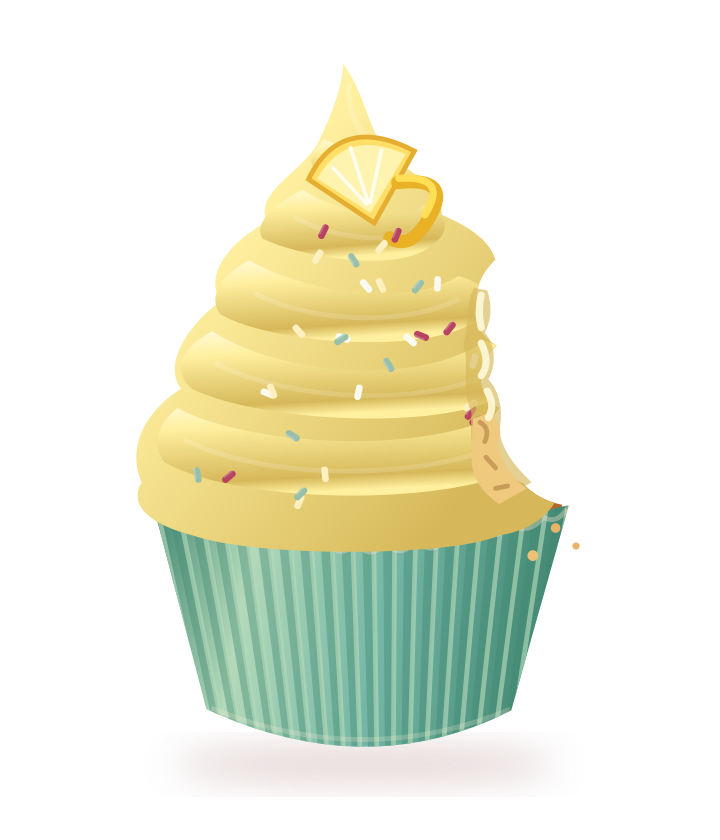
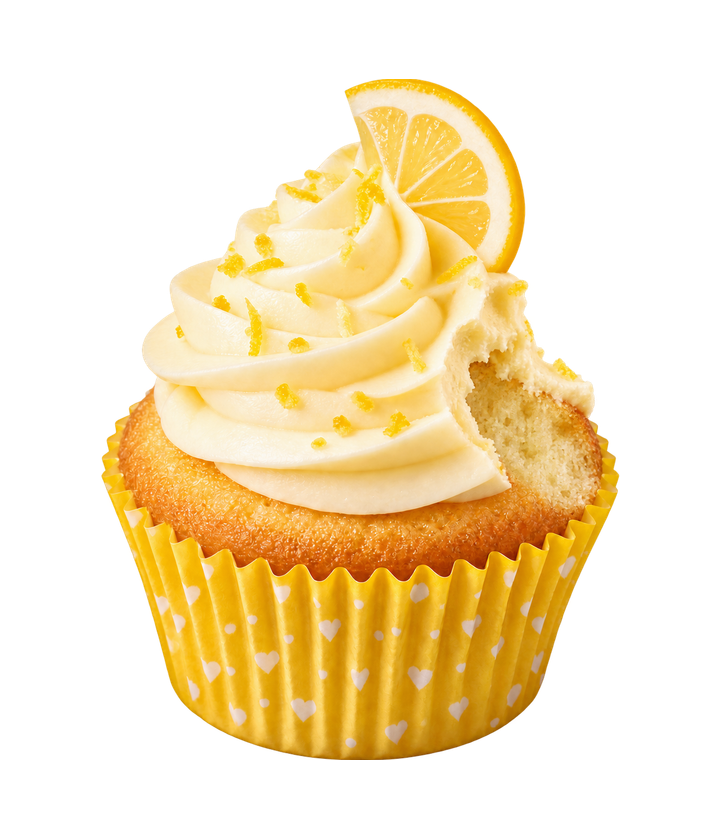
Replace product illustrations with reference-based cupcake and package photos

diff --git a/components/Hero.tsx b/components/Hero.tsx
@@ -33,17 +33,17 @@ export default function Hero() {
       <motion.div className="hero-wordmark pointer-events-none absolute z-0 w-full text-center font-logo text-cherry" style={{ y: reduced ? 0 : logoY }} aria-hidden="true">Cherry Dolly</motion.div>
       <motion.div className="hero-box absolute z-10" style={{ y: reduced ? 0 : boxY }}>
         <motion.div animate={reduced ? { y: 0, rotate: -8 } : { y: [0, -14, 0], rotate: [-8, -6, -8] }} initial={{ rotate: -8 }} transition={reduced ? { duration: 0 } : { duration: 7, ease: "easeInOut", repeat: Infinity }}>
-          <ProductImage src="/images/hero-box.png" fallback="/images/placeholders/hero-box.svg" alt="ピンクとミントの装飾をあしらった、クリーム色の Cherry Dolly カップケーキボックス" priority className="w-full drop-shadow-[0_34px_25px_rgba(124,54,58,0.15)]" />
+          <ProductImage src="/images/hero-box.png" fallback="/images/placeholders/hero-box.svg" alt="ピンクの持ち手が付いた、カップケーキ入りの淡いピンクの紙箱" priority className="w-full drop-shadow-[0_34px_25px_rgba(124,54,58,0.15)]" />
         </motion.div>
       </motion.div>
       <motion.div className="hero-cake hero-cake-vanilla absolute z-20" style={{ y: reduced ? 0 : cakeY }}>
         <motion.div animate={reduced ? { y: 0, rotate: -10 } : { y: [0, -12, 0], rotate: [-10, -6, -10] }} initial={{ rotate: -10 }} transition={reduced ? { duration: 0 } : { duration: 5.8, ease: "easeInOut", repeat: Infinity }}>
-          <ProductImage src="/images/cupcake-vanilla.png" fallback="/images/placeholders/cupcake-vanilla.svg" alt="チェリーをのせた、ふわふわのバニラバタークリームカップケーキ" priority />
+          <ProductImage src="/images/cupcake-vanilla.png" fallback="/images/placeholders/cupcake-vanilla.svg" alt="淡いピンクのクリームと赤いチェリーをのせた、ハート柄のカップケーキ" priority />
         </motion.div>
       </motion.div>
       <motion.div className="hero-cake hero-cake-strawberry absolute z-20" style={{ y: reduced ? 0 : cakeY }}>
         <motion.div animate={reduced ? { y: 0, rotate: 13 } : { y: [0, 11, 0], rotate: [13, 9, 13] }} initial={{ rotate: 13 }} transition={reduced ? { duration: 0 } : { duration: 6.6, ease: "easeInOut", repeat: Infinity }}>
-          <ProductImage src="/images/cupcake-strawberry.png" fallback="/images/placeholders/cupcake-strawberry.svg" alt="カラースプレーを散らした、ピンクのストロベリーミルクカップケーキ" priority />
+          <ProductImage src="/images/cupcake-strawberry.png" fallback="/images/placeholders/cupcake-strawberry.svg" alt="ピンクのクリームに赤いベリーをのせた、ハート柄のカップケーキ" priority />
         </motion.div>
       </motion.div>
       <Sparkle className="absolute top-[47%] left-[39%] z-20 h-9 w-9 text-cherry/75 max-md:top-[35%] max-md:left-[7%] max-md:h-6 max-md:w-6" />

diff --git a/components/BiteInteraction.tsx b/components/BiteInteraction.tsx
@@ -127,7 +127,7 @@ export default function BiteInteraction() {
                   <ProductImage
                     src="/images/cupcake-vanilla.png"
                     fallback="/images/placeholders/cupcake-vanilla.svg"
-                    alt="チェリーをのせた、ふわふわのバニラカップケーキ"
+                    alt="淡いピンクのクリームと赤いチェリーをのせたカップケーキ"
                     priority
                     className="h-full w-full object-contain drop-shadow-[0_24px_16px_rgba(98,45,37,0.14)]"
                   />
@@ -140,7 +140,7 @@ export default function BiteInteraction() {
                   <ProductImage
                     src="/images/cupcake-bite-vanilla.png"
                     fallback="/images/placeholders/cupcake-bite-vanilla.svg"
-                    alt="ひとくち食べて、スポンジの断面が見えるバニラカップケーキ"
+                    alt="ひとくち食べてスポンジの断面が見える、淡いピンクのクリームのカップケーキ"
                     priority
                     className="h-full w-full object-contain drop-shadow-[0_24px_16px_rgba(98,45,37,0.14)]"
                   />

diff --git a/components/ui/ProductImage.tsx b/components/ui/ProductImage.tsx
@@ -15,6 +15,7 @@ export default function ProductImage({ src, fallback, alt, className = "", prior
   const [failedSource, setFailedSource] = useState<string | null>(null);
   const imageRef = useRef<HTMLImageElement>(null);
   const activeSrc = failedSource === src ? fallback : src;
+  const imageVersion = process.env.NEXT_PUBLIC_IMAGE_VERSION;
 
   useEffect(() => {
     const image = imageRef.current;
@@ -29,7 +30,7 @@ export default function ProductImage({ src, fallback, alt, className = "", prior
     // eslint-disable-next-line @next/next/no-img-element
     <img
       ref={imageRef}
-      src={`${process.env.NEXT_PUBLIC_BASE_PATH ?? ""}${activeSrc}`}
+      src={`${process.env.NEXT_PUBLIC_BASE_PATH ?? ""}${activeSrc}${imageVersion ? `?v=${imageVersion}` : ""}`}
       alt={alt}
       className={`product-image ${className}`}
       loading={priority ? "eager" : "lazy"}

diff --git a/components/FeaturedSection.tsx b/components/FeaturedSection.tsx
@@ -55,7 +55,7 @@ export default function FeaturedSection() {
             <ProductImage
               src="/images/cupcake-vanilla.png"
               fallback="/images/placeholders/cupcake-vanilla.svg"
-              alt="高く絞ったバニラのバタークリームに、赤いチェリーをのせたカップケーキ"
+              alt="高く絞った淡いピンクのバタークリームに、赤いチェリーをのせたハート柄のカップケーキ"
               className="relative z-10 aspect-square w-full object-contain drop-shadow-[0_24px_18px_rgba(57,74,50,0.12)]"
             />
 

diff --git a/README.md b/README.md
@@ -26,6 +26,8 @@ npm run deploy:pages
 
 最初のコマンドは `/cherry-dolly-site` 配下で画像・フォント・JavaScriptが表示されるよう設定して、`out/` に静的サイトを出力します。次のコマンドはGitの `origin` にある `gh-pages` ブランチへ出力を保存します。GitHubへの書き込み権限が必要です。ソースの作業ブランチは変更せず、強制pushも行いません。Pagesの初期設定はGitHubの Settings → Pages で `gh-pages` / `/ (root)` を選択します。
 
+公開用ビルドではPNGの内容から画像URLのバージョンを自動生成するため、同じファイル名で差し替えても以前の画像キャッシュを使い続けません。
+
 通常の開発・本番サーバー起動には、従来どおり `npm run dev` または `npm run build` → `npm start` を使います。
 
 ## 構成
@@ -39,20 +41,20 @@ npm run deploy:pages
 - `components/BrandMessage.tsx` / `Footer.tsx`: ブランドメッセージと締めくくり
 - `components/ui/ProductImage.tsx`: 画像フォールバック
 - `lib/products.ts`: フレーバー名、説明、商品色
-- `public/images`: 差し替え可能な透明背景の仮素材
+- `public/images`: 差し替え可能な透明背景の商品素材
 
 ## 商品画像の差し替え
 
-以下のPNGを同名で置き換えてください。仮素材のPNGも同梱しているため、最初から表示できます。PNGが存在しない場合は `public/images/placeholders/` のSVGに自動で切り替わります。
+以下のPNGを同名で置き換えてください。透明背景の商品素材を同梱しているため、最初から表示できます。PNGが存在しない場合は `public/images/placeholders/` のSVGに自動で切り替わります。
 
 | ファイル | 内容 |
 | --- | --- |
-| `hero-box.png` | Heroの大きな箱 |
-| `packaging-box.png` | 再利用用のパッケージ箱 |
-| `cupcake-vanilla.png` | Cherry Vanilla |
-| `cupcake-lemon.png` | Lemon Cream |
-| `cupcake-strawberry.png` | Strawberry Milk |
-| `cupcake-chocolate.png` | Chocolate Sundae |
+| `hero-box.png` | Heroの持ち手付きピンクの紙箱 |
+| `packaging-box.png` | 再利用用の持ち手付きピンクの紙箱 |
+| `cupcake-vanilla.png` | Cherry Vanilla：淡いピンクのクリーム、赤いチェリー、ピンクのハート柄カップ |
+| `cupcake-lemon.png` | Lemon Cream：淡い黄色のクリーム、レモンスライス、黄色のハート柄カップ |
+| `cupcake-strawberry.png` | Strawberry Milk：ピンクのクリーム、赤いベリー、ピンクのハート柄カップ |
+| `cupcake-chocolate.png` | Chocolate Sundae：チョコクリーム、チョコチップ、小さなピンクのハート、茶色のハート柄カップ |
 | `cupcake-bite-vanilla.png` | ひとくち後の Cherry Vanilla |
 | `cupcake-bite-lemon.png` | ひとくち後の Lemon Cream |
 | `cupcake-bite-strawberry.png` | ひとくち後の Strawberry Milk |
@@ -60,9 +62,13 @@ npm run deploy:pages
 
 カップケーキは6:7、箱は100:76の比率を推奨します。通常画像とbite画像は、同じキャンバスサイズ・構図・位置で揃えてください。biteセクションではバニラのペアを使用しています。PNGを変える場合も透明背景を維持すると重なりと影を活かせます。
 
-見出し・コピー・大きなロゴはHTMLで、商品画像とは別に制御します。想定アセットの `logo-wordmark.png` は必須ではなく、可読性と拡大表示のためHTMLロゴを採用しています。パッケージ面に印刷されたブランド文字は、商品イラストの一部です。
+見出し・コピー・大きなロゴはHTMLで、商品画像とは別に制御します。想定アセットの `logo-wordmark.png` は必須ではなく、可読性と拡大表示のためHTMLロゴを採用しています。パッケージ面に印刷された文字は商品画像の一部です。
 
-フォントはnpmパッケージから配信するため、Google Fontsへの接続は不要です。仮イラストは本プロジェクト用に作成しています。
+同梱PNGは、ユーザー提供のポスターを参照してAIで再構成した、写真風の透明背景素材です。商品ごとの色、トッピング、ハート柄のカップと、淡いピンクの持ち手付き紙箱を参照しています。ひとくち後のPNGも、通常画像と対になる透明背景素材です。箱の面にある小文字の `sucre` は参照したパッケージの印刷を引き継いでいます。サイトのHTMLロゴ・コピーと商品名は Cherry Dolly の設定を使用します。
+
+`public/images/placeholders/` のSVGは、初期実装時に本プロジェクト用に作成した独自の仮イラストです。PNGの参照素材とは別に、画像未配置時の表示を保つために残しています。
+
+フォントはnpmパッケージから配信するため、Google Fontsへの接続は不要です。
 
 ## 動きとアクセシビリティ
 
